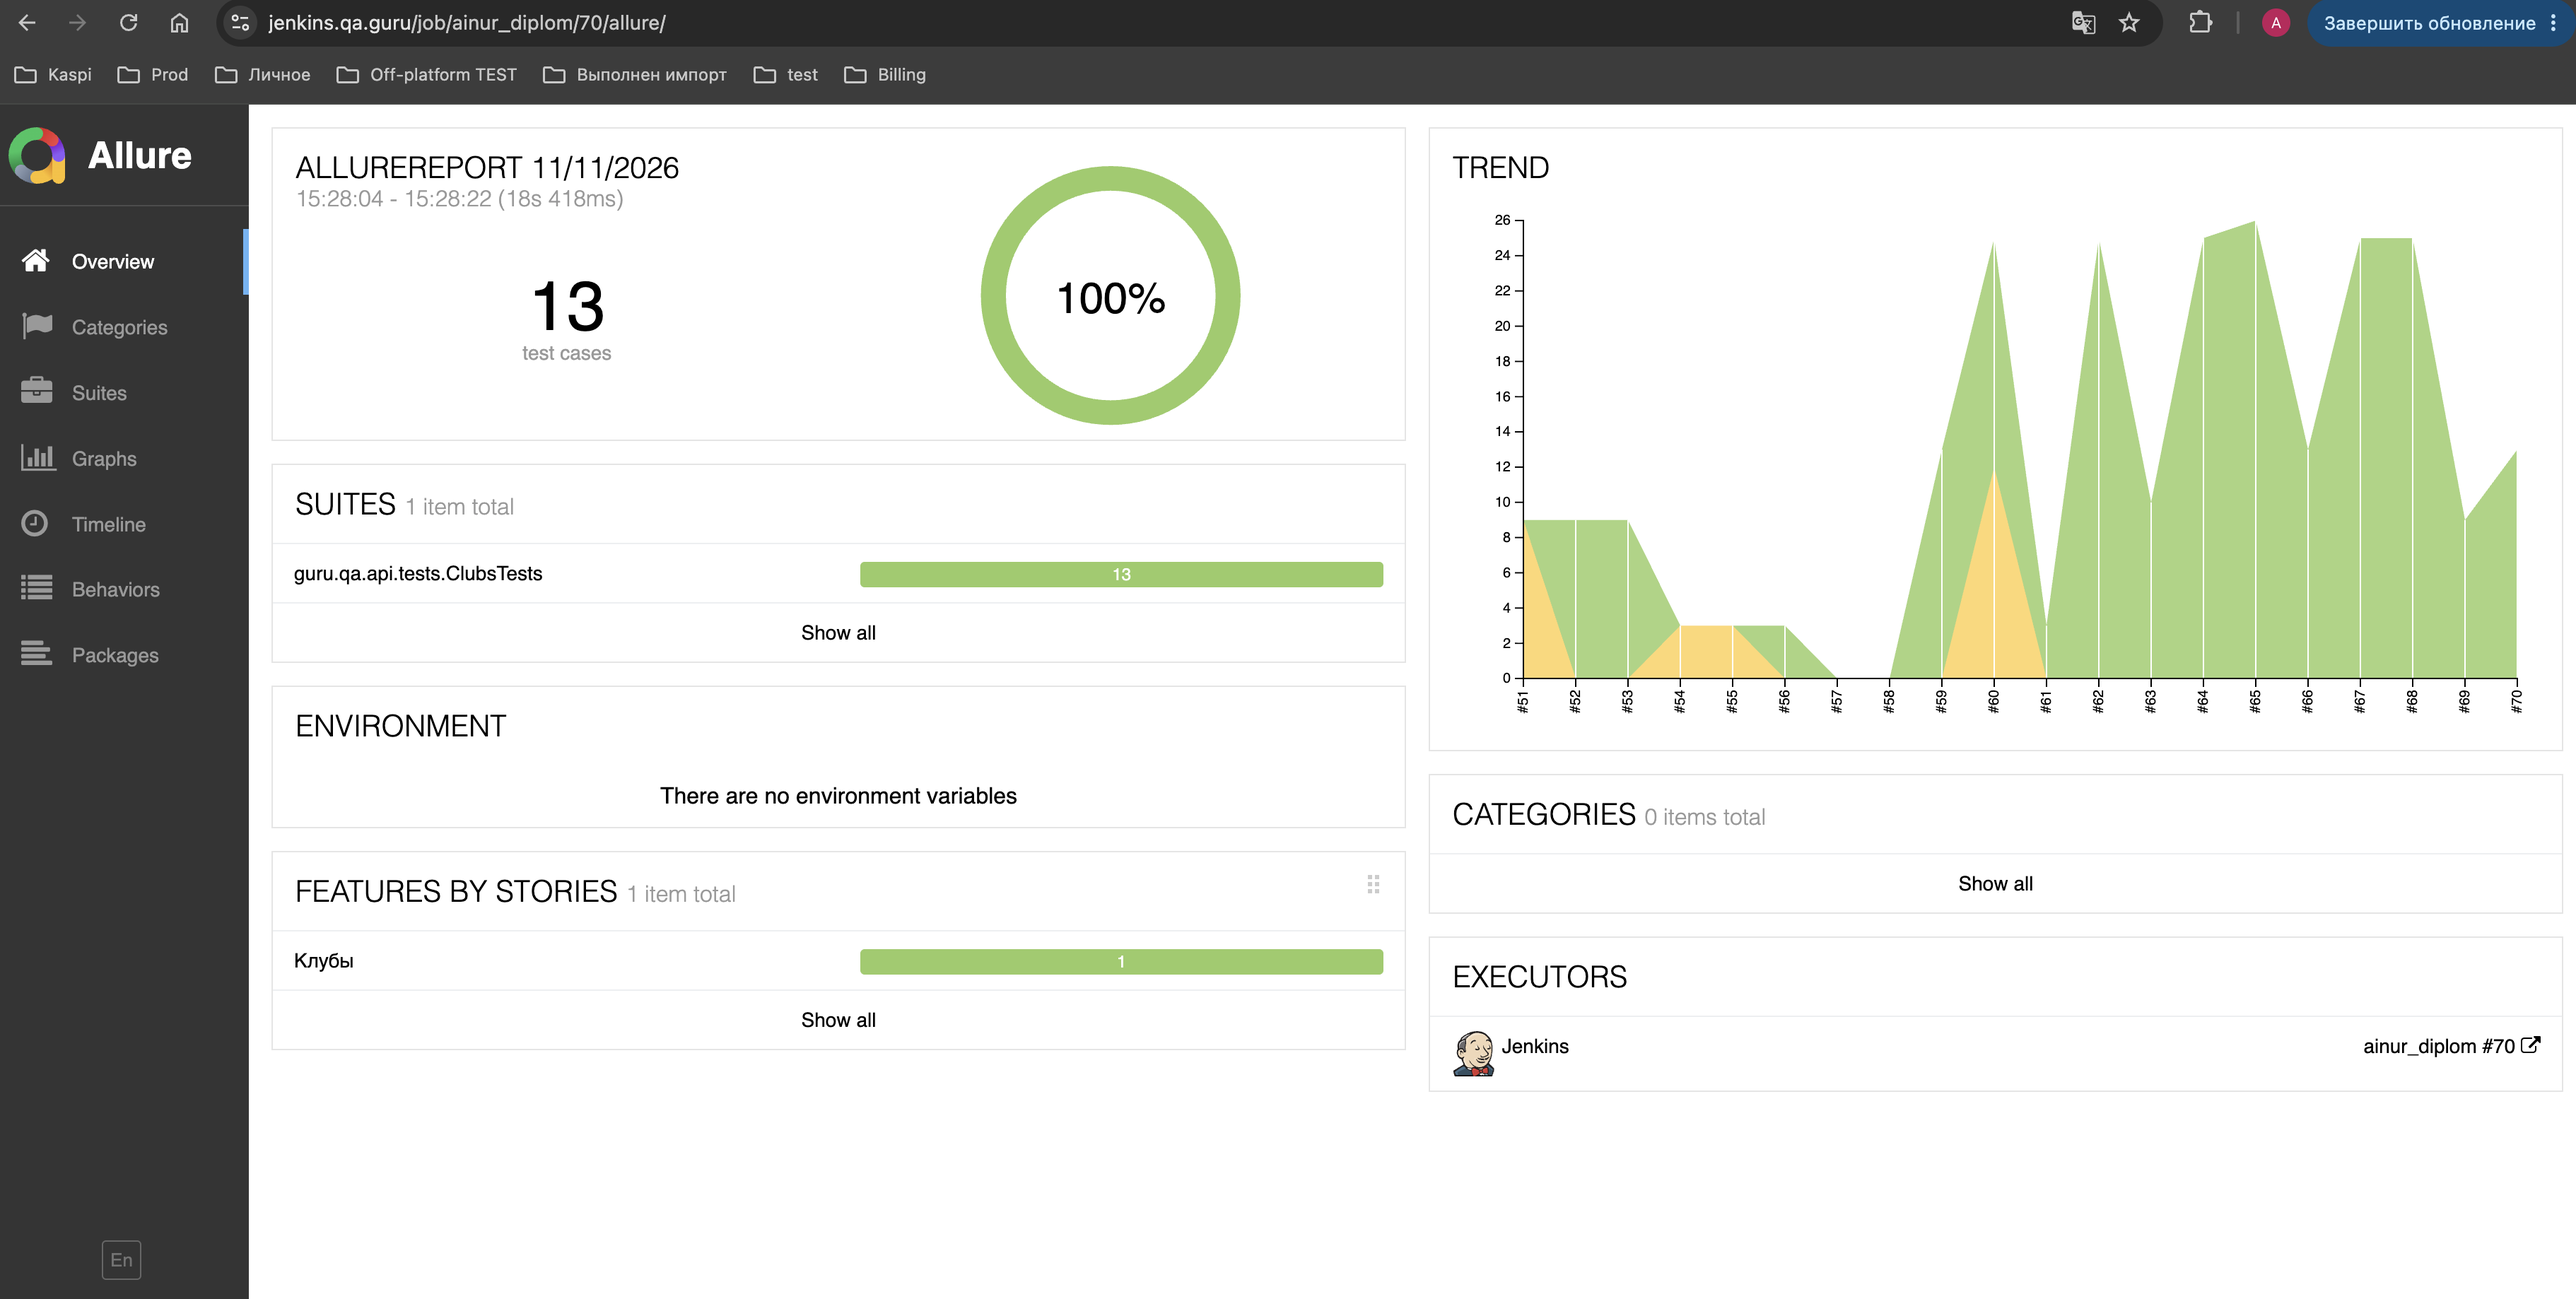
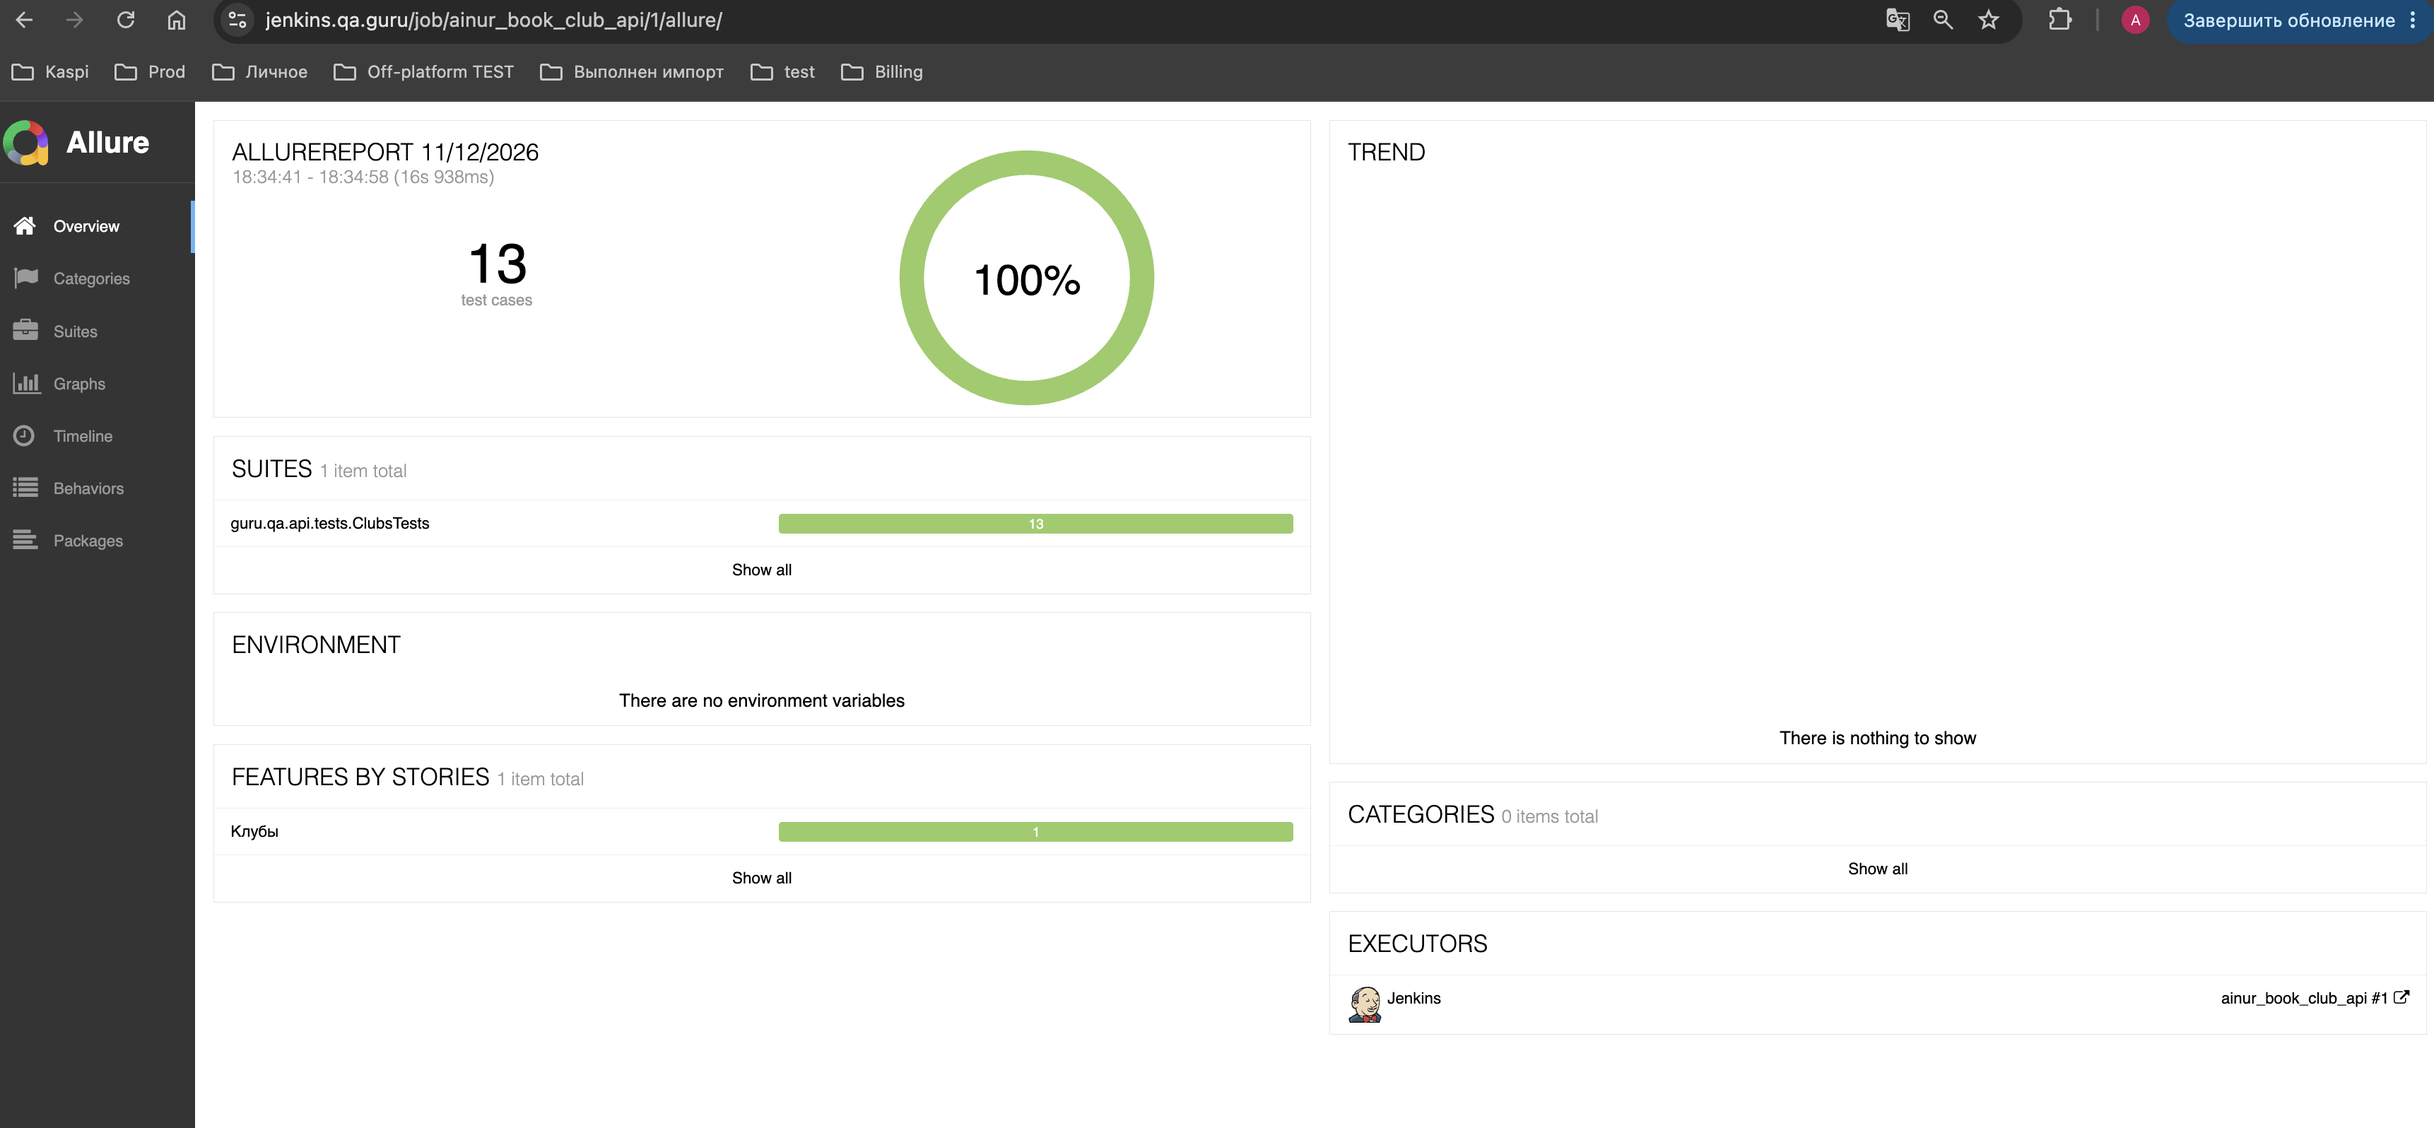
Move README.md to root directory

diff --git a/README.md b/README.md
@@ -149,7 +149,7 @@ dobook-club-api-automation/
 После завершения сборки все тесты успешно отработали
 
 <p align="center">
-  <img src="./images/jenkins-build-success.png" alt="Jenkins Build Success" width="850px"/>
+  <img src="docs/api/images/jenkins-build-success.png" alt="Jenkins Build Success" width="850px"/>
 </p>
 
 ---
@@ -160,12 +160,12 @@ dobook-club-api-automation/
 ## 📊  [Allure-отчет](https://jenkins.qa.guru/job/ainur_book_club_api/1/allure/)
 ### Основная страница отчета
 <p align="center">
-  <img src="./images/api-allure-overview.png" alt="Allure Overview" width="850px"/>
+  <img src="docs/api/images/api-allure-overview.png" alt="Allure Overview" width="850px"/>
 </p>
 
 ### Тест-кейсы
 <p align="center">
-  <img src="./images/api_Test_cases.png" alt="Allure Test Details" width="850px"/>
+  <img src="docs/api/images/api_Test_cases.png" alt="Allure Test Details" width="850px"/>
 </p>
 
 ---
@@ -175,7 +175,7 @@ dobook-club-api-automation/
 Результаты выполнения тестов автоматически выгружаются в Allure TestOps. Посмотреть детальный отчет и шаги прогона можно по [ссылке на лаунч в Allure TestOps](https://allure.qa.guru/launch/57093/tree/1177666)
 
 <p align="center">
-  <img src="./images/api-allure-testops-launch.png.png" alt="Allure TestOps Launch Results" width="850px"/>
+  <img src="docs/api/images/api-allure-testops-launch.png.png" alt="Allure TestOps Launch Results" width="850px"/>
 </p>
 
 <p align="right"><a href="#readme-top">⬆ наверх</a></p>
@@ -187,7 +187,7 @@ dobook-club-api-automation/
 В рамках проекта настроена интеграция с Jira. Задача на автоматизацию интерфейса **[MUL-74](https://jira.qa.guru/browse/MUL-74)**
 
 <p align="center">
-  <img src="./images/api-jira-integration.png" alt="Jira Task MUL-73 Integration" width="850px"/>
+  <img src="docs/api/images/api-jira-integration.png" alt="Jira Task MUL-73 Integration" width="850px"/>
 </p>
 
 <p align="right"><a href="#readme-top">⬆ наверх</a></p>
@@ -200,7 +200,7 @@ dobook-club-api-automation/
 В процессе выполнения сборки в Jenkins настроена автоматическая отправка нотификаций в Telegram-чат с общей статистикой успешных тестов (13 из 13 успешных, 100%):
 
 <p align="center">
-  <img src="./images/api-telegram-notification.png" alt="Telegram Notification" width="450px"/>
+  <img src="docs/api/images/api-telegram-notification.png" alt="Telegram Notification" width="450px"/>
 </p>
 
 <p align="right"><a href="#readme-top">⬆ наверх</a></p>
